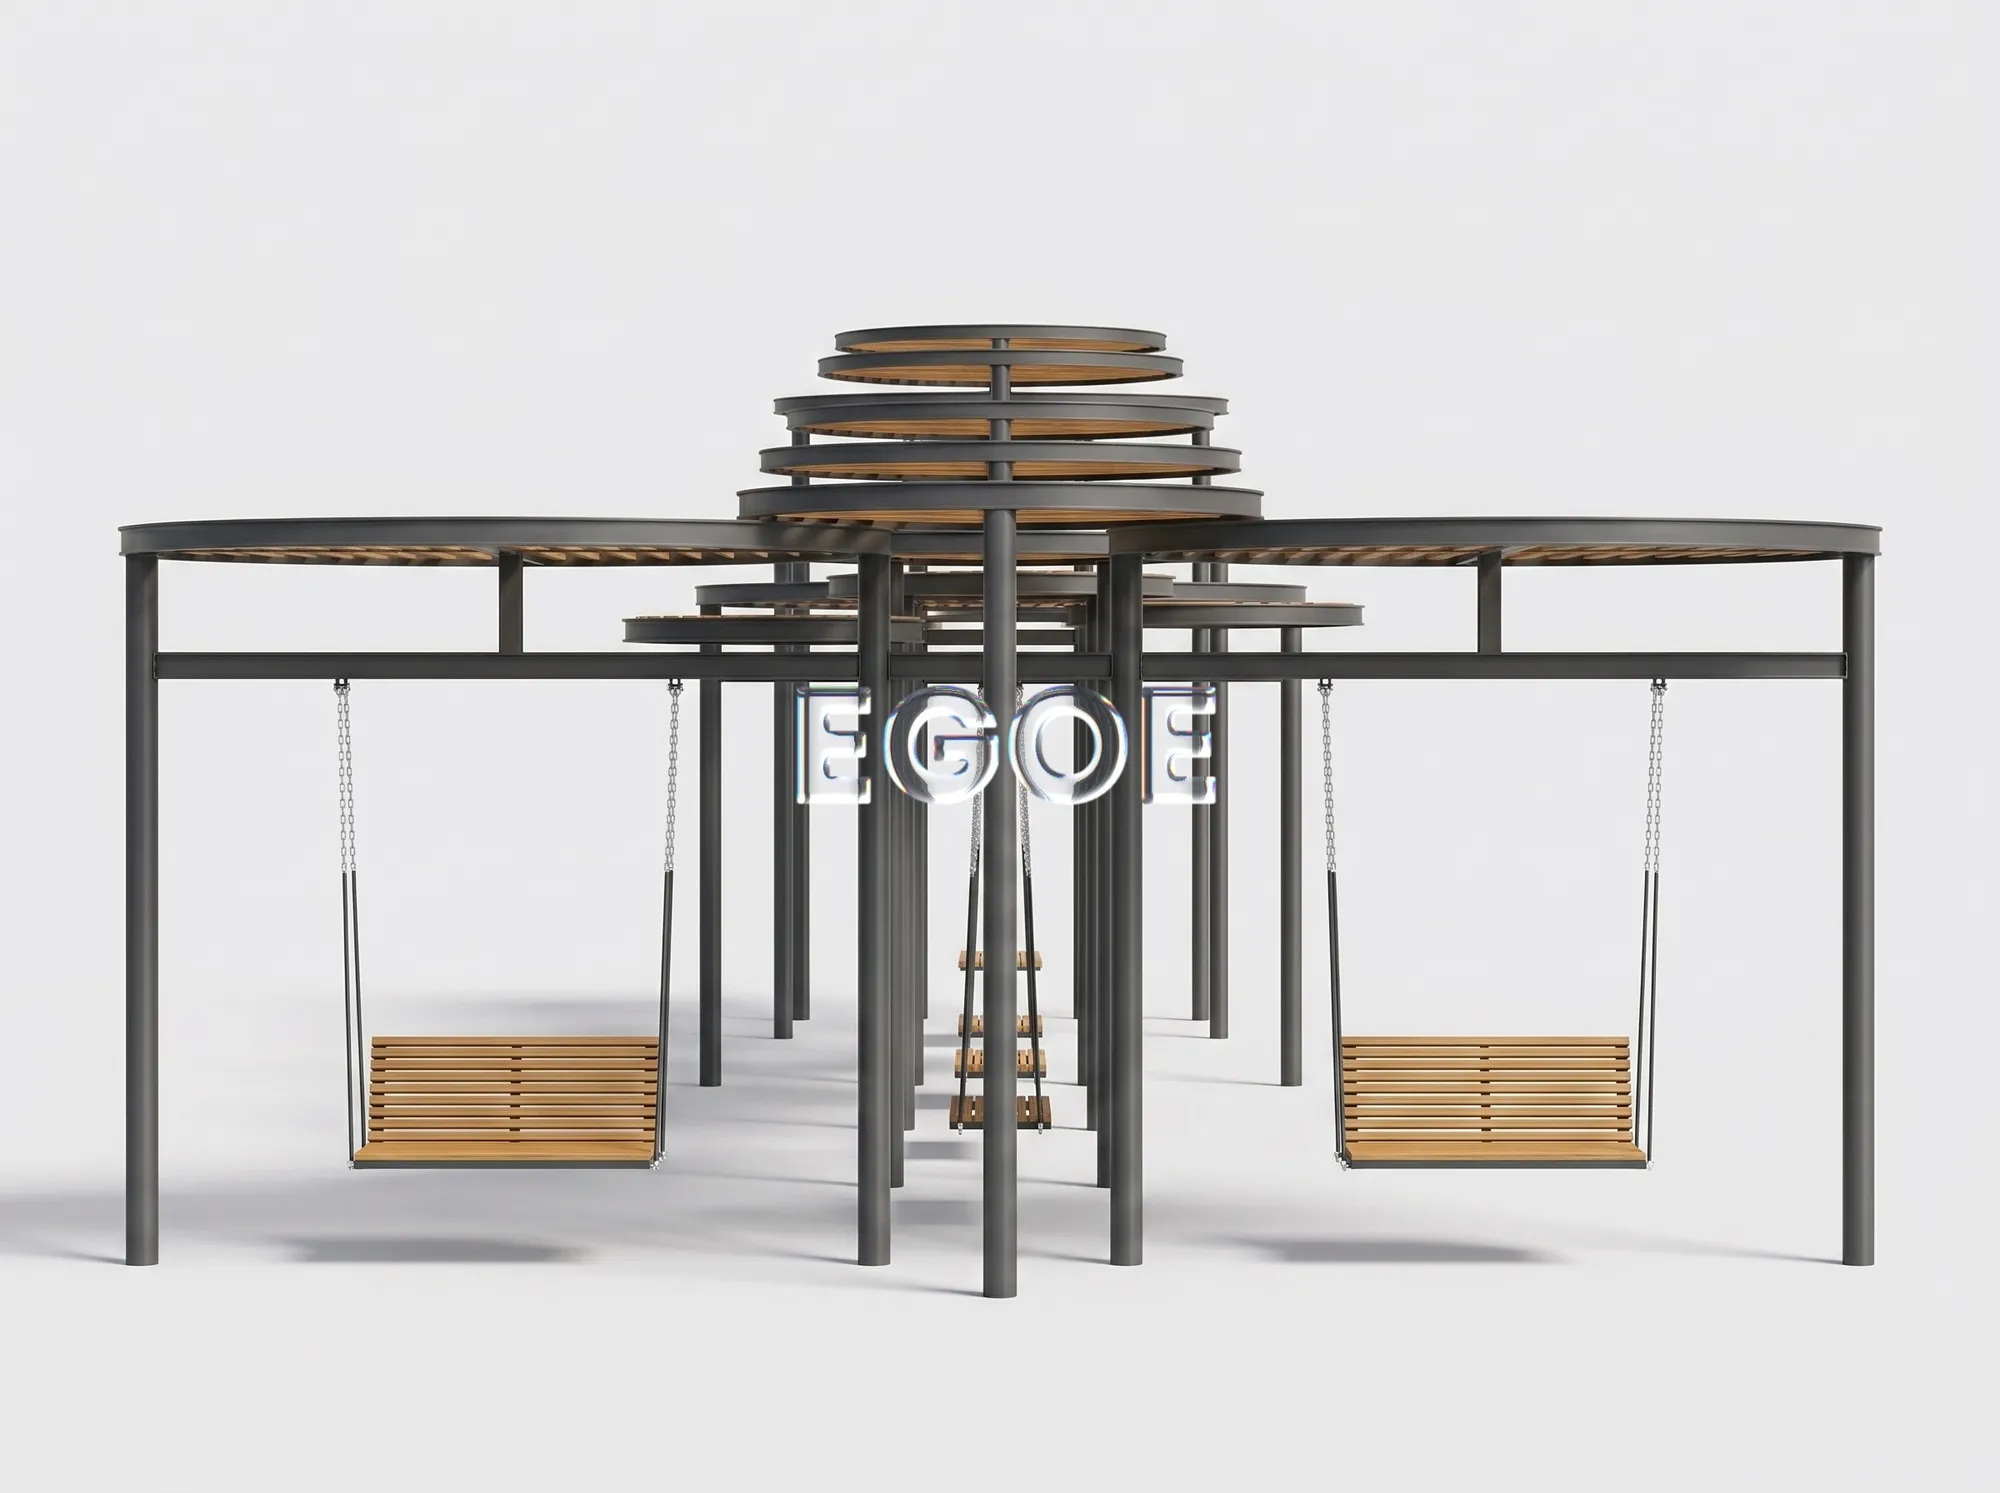
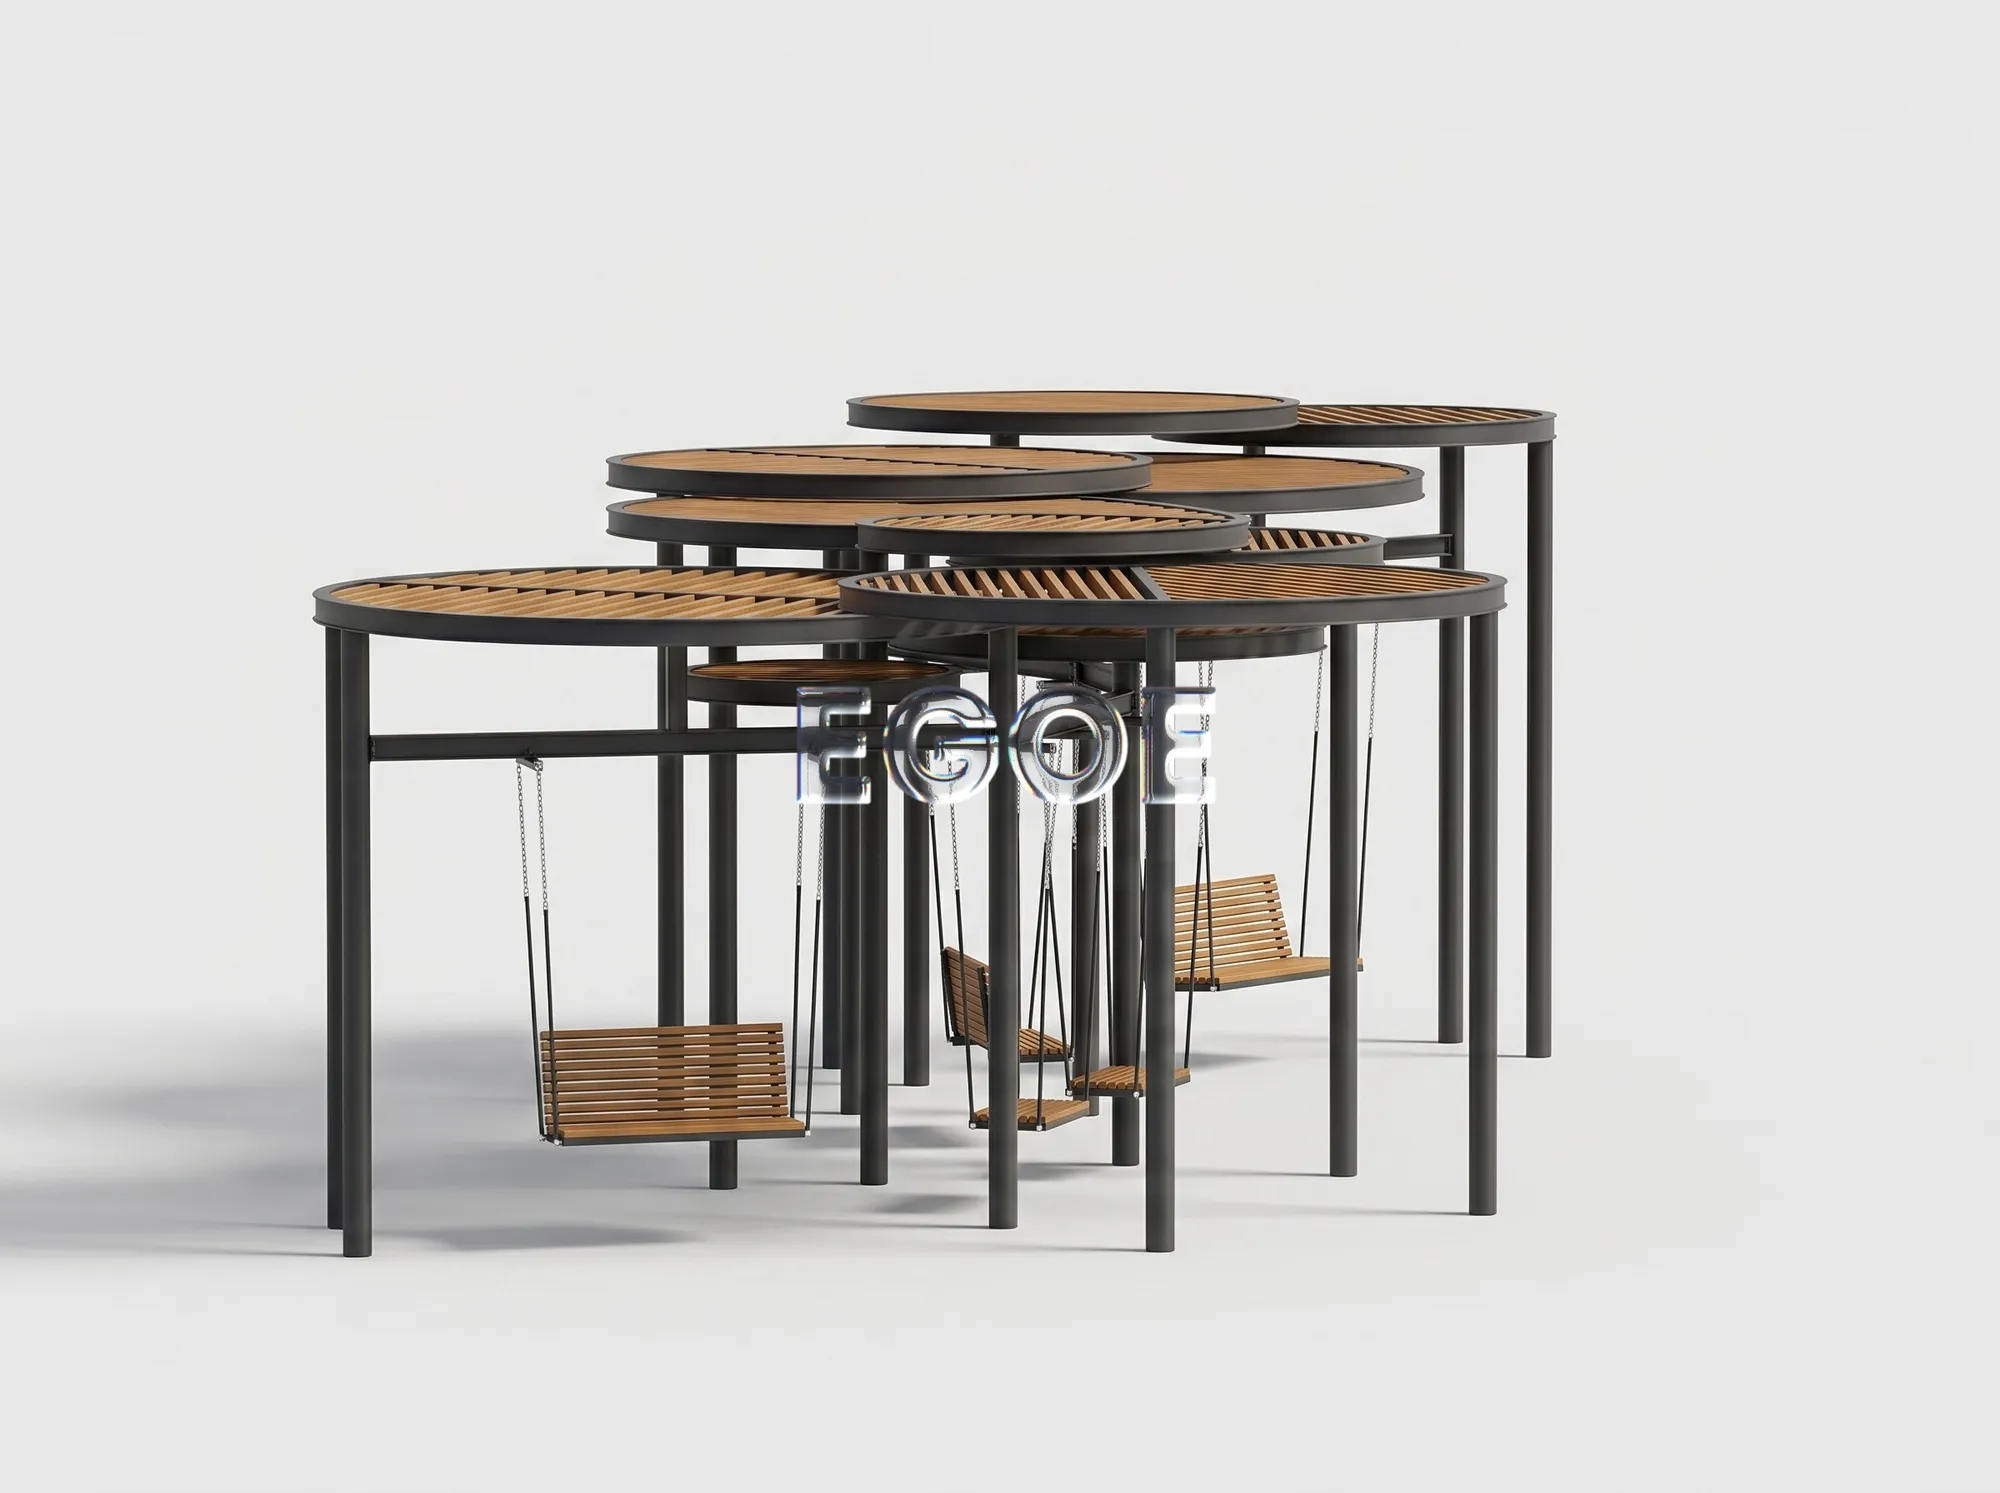
Update swing product photos

Changed region(s): [[0.0, 0.2157, 0.961, 0.8935]]

diff --git a/maf/kacheli/kacheli-bulvar/index.html b/maf/kacheli/kacheli-bulvar/index.html
@@ -129,8 +129,8 @@
     <div class="sec-head"><div><h2>Другие модели качелей</h2></div><a class="btn btn-sm" href="../../../maf/kacheli/index.html">Все качели</a></div>
     <div class="tiles3">
       <a class="tile" href="../../../maf/kacheli/kacheli-siti/index.html"><div class="ph has-img r-43"><img src="../../../assets/img/maf/kacheli/12189/main.webp" alt="Качели парковые «Сити»" loading="lazy"><span class="ph-label">Качели парковые «Сити»</span></div><h3>Качели парковые «Сити»</h3><p>от 605 900 ₽</p></a>
-      <a class="tile" href="../../../maf/kacheli/kacheli-miass-raund/index.html"><div class="ph has-img contain r-43"><img src="../../../assets/img/maf/kacheli/30279/main.webp" alt="Качели садово-парковые «Миасс Раунд»" loading="lazy"><span class="ph-label">Качели садово-парковые «Миасс Раунд»</span></div><h3>Качели садово-парковые «Миасс Раунд»</h3><p>от 709 200 ₽</p></a>
-      <a class="tile" href="../../../maf/kacheli/kacheli-oazis/index.html"><div class="ph has-img contain r-43"><img src="../../../assets/img/maf/kacheli/39606/main.webp" alt="Качели «Оазис»" loading="lazy"><span class="ph-label">Качели «Оазис»</span></div><h3>Качели «Оазис»</h3><p>от 2 291 700 ₽</p></a>
+      <a class="tile" href="../../../maf/kacheli/kacheli-miass-raund/index.html"><div class="ph has-img r-43"><img src="../../../assets/img/maf/kacheli/30279/main.webp" alt="Качели садово-парковые «Миасс Раунд»" loading="lazy"><span class="ph-label">Качели садово-парковые «Миасс Раунд»</span></div><h3>Качели садово-парковые «Миасс Раунд»</h3><p>от 709 200 ₽</p></a>
+      <a class="tile" href="../../../maf/kacheli/kacheli-oazis/index.html"><div class="ph has-img r-43"><img src="../../../assets/img/maf/kacheli/39606/main.webp" alt="Качели «Оазис»" loading="lazy"><span class="ph-label">Качели «Оазис»</span></div><h3>Качели «Оазис»</h3><p>от 2 291 700 ₽</p></a>
     </div>
   </div>
 </section>

diff --git a/maf/kacheli/kacheli-miass-raund/index.html b/maf/kacheli/kacheli-miass-raund/index.html
@@ -80,7 +80,7 @@
     <div class="prodpage">
       <div class="gallery">
               <div class="ph has-img main r-43"><img src="../../../assets/img/maf/kacheli/30279/main.webp" alt="Качели садово-парковые «Миасс Раунд»" loading="lazy"><span class="ph-label">Качели садово-парковые «Миасс Раунд»</span></div>
-              <div class="thumbs"><div class="ph has-img r-43"><img src="../../../assets/img/maf/kacheli/30279/closeup.webp" alt="Качели садово-парковые «Миасс Раунд»" loading="lazy"><span class="ph-label">деталь</span></div><div class="ph has-img contain r-43"><img src="../../../assets/img/maf/kacheli/30279/white.webp" alt="Качели садово-парковые «Миасс Раунд»" loading="lazy"><span class="ph-label">белый фон</span></div></div>
+              <div class="thumbs"><div class="ph has-img r-43"><img src="../../../assets/img/maf/kacheli/30279/closeup.webp" alt="Качели садово-парковые «Миасс Раунд»" loading="lazy"><span class="ph-label">деталь</span></div><div class="ph has-img contain r-43"><img src="../../../assets/img/maf/kacheli/30279/white.webp" alt="Качели садово-парковые «Миасс Раунд»" loading="lazy"><span class="ph-label">белый фон</span></div><div class="ph has-img r-43"><img src="../../../assets/img/maf/kacheli/30279/angle.webp" alt="Качели садово-парковые «Миасс Раунд»" loading="lazy"><span class="ph-label">на объекте</span></div></div>
             </div>
       <div class="pp-info">
         <h1 style="font-size:30px">Качели садово-парковые «Миасс Раунд»</h1>
@@ -130,7 +130,7 @@
     <div class="tiles3">
       <a class="tile" href="../../../maf/kacheli/kacheli-siti/index.html"><div class="ph has-img r-43"><img src="../../../assets/img/maf/kacheli/12189/main.webp" alt="Качели парковые «Сити»" loading="lazy"><span class="ph-label">Качели парковые «Сити»</span></div><h3>Качели парковые «Сити»</h3><p>от 605 900 ₽</p></a>
       <a class="tile" href="../../../maf/kacheli/kacheli-bulvar/index.html"><div class="ph has-img r-43"><img src="../../../assets/img/maf/kacheli/12202/main.webp" alt="Качели садово-парковые «Бульвар»" loading="lazy"><span class="ph-label">Качели садово-парковые «Бульвар»</span></div><h3>Качели садово-парковые «Бульвар»</h3><p>от 69 500 ₽</p></a>
-      <a class="tile" href="../../../maf/kacheli/kacheli-oazis/index.html"><div class="ph has-img contain r-43"><img src="../../../assets/img/maf/kacheli/39606/main.webp" alt="Качели «Оазис»" loading="lazy"><span class="ph-label">Качели «Оазис»</span></div><h3>Качели «Оазис»</h3><p>от 2 291 700 ₽</p></a>
+      <a class="tile" href="../../../maf/kacheli/kacheli-oazis/index.html"><div class="ph has-img r-43"><img src="../../../assets/img/maf/kacheli/39606/main.webp" alt="Качели «Оазис»" loading="lazy"><span class="ph-label">Качели «Оазис»</span></div><h3>Качели «Оазис»</h3><p>от 2 291 700 ₽</p></a>
     </div>
   </div>
 </section>

diff --git a/maf/kacheli/kacheli-siti/index.html b/maf/kacheli/kacheli-siti/index.html
@@ -129,8 +129,8 @@
     <div class="sec-head"><div><h2>Другие модели качелей</h2></div><a class="btn btn-sm" href="../../../maf/kacheli/index.html">Все качели</a></div>
     <div class="tiles3">
       <a class="tile" href="../../../maf/kacheli/kacheli-bulvar/index.html"><div class="ph has-img r-43"><img src="../../../assets/img/maf/kacheli/12202/main.webp" alt="Качели садово-парковые «Бульвар»" loading="lazy"><span class="ph-label">Качели садово-парковые «Бульвар»</span></div><h3>Качели садово-парковые «Бульвар»</h3><p>от 69 500 ₽</p></a>
-      <a class="tile" href="../../../maf/kacheli/kacheli-miass-raund/index.html"><div class="ph has-img contain r-43"><img src="../../../assets/img/maf/kacheli/30279/main.webp" alt="Качели садово-парковые «Миасс Раунд»" loading="lazy"><span class="ph-label">Качели садово-парковые «Миасс Раунд»</span></div><h3>Качели садово-парковые «Миасс Раунд»</h3><p>от 709 200 ₽</p></a>
-      <a class="tile" href="../../../maf/kacheli/kacheli-oazis/index.html"><div class="ph has-img contain r-43"><img src="../../../assets/img/maf/kacheli/39606/main.webp" alt="Качели «Оазис»" loading="lazy"><span class="ph-label">Качели «Оазис»</span></div><h3>Качели «Оазис»</h3><p>от 2 291 700 ₽</p></a>
+      <a class="tile" href="../../../maf/kacheli/kacheli-miass-raund/index.html"><div class="ph has-img r-43"><img src="../../../assets/img/maf/kacheli/30279/main.webp" alt="Качели садово-парковые «Миасс Раунд»" loading="lazy"><span class="ph-label">Качели садово-парковые «Миасс Раунд»</span></div><h3>Качели садово-парковые «Миасс Раунд»</h3><p>от 709 200 ₽</p></a>
+      <a class="tile" href="../../../maf/kacheli/kacheli-oazis/index.html"><div class="ph has-img r-43"><img src="../../../assets/img/maf/kacheli/39606/main.webp" alt="Качели «Оазис»" loading="lazy"><span class="ph-label">Качели «Оазис»</span></div><h3>Качели «Оазис»</h3><p>от 2 291 700 ₽</p></a>
     </div>
   </div>
 </section>

diff --git a/maf/kacheli/kacheli-tandem/index.html b/maf/kacheli/kacheli-tandem/index.html
@@ -80,7 +80,7 @@
     <div class="prodpage">
       <div class="gallery">
               <div class="ph has-img main r-43"><img src="../../../assets/img/maf/kacheli/61962/main.webp" alt="Качели парковые «Тандем»" loading="lazy"><span class="ph-label">Качели парковые «Тандем»</span></div>
-              <div class="thumbs"><div class="ph has-img r-43"><img src="../../../assets/img/maf/kacheli/61962/closeup.webp" alt="Качели парковые «Тандем»" loading="lazy"><span class="ph-label">деталь</span></div><div class="ph has-img contain r-43"><img src="../../../assets/img/maf/kacheli/61962/white.webp" alt="Качели парковые «Тандем»" loading="lazy"><span class="ph-label">белый фон</span></div></div>
+              <div class="thumbs"><div class="ph has-img r-43"><img src="../../../assets/img/maf/kacheli/61962/closeup.webp" alt="Качели парковые «Тандем»" loading="lazy"><span class="ph-label">деталь</span></div><div class="ph has-img contain r-43"><img src="../../../assets/img/maf/kacheli/61962/white.webp" alt="Качели парковые «Тандем»" loading="lazy"><span class="ph-label">белый фон</span></div><div class="ph has-img r-43"><img src="../../../assets/img/maf/kacheli/61962/angle.webp" alt="Качели парковые «Тандем»" loading="lazy"><span class="ph-label">на объекте</span></div></div>
             </div>
       <div class="pp-info">
         <h1 style="font-size:30px">Качели парковые «Тандем»</h1>
@@ -126,7 +126,7 @@
     <div class="tiles3">
       <a class="tile" href="../../../maf/kacheli/kacheli-siti/index.html"><div class="ph has-img r-43"><img src="../../../assets/img/maf/kacheli/12189/main.webp" alt="Качели парковые «Сити»" loading="lazy"><span class="ph-label">Качели парковые «Сити»</span></div><h3>Качели парковые «Сити»</h3><p>от 605 900 ₽</p></a>
       <a class="tile" href="../../../maf/kacheli/kacheli-bulvar/index.html"><div class="ph has-img r-43"><img src="../../../assets/img/maf/kacheli/12202/main.webp" alt="Качели садово-парковые «Бульвар»" loading="lazy"><span class="ph-label">Качели садово-парковые «Бульвар»</span></div><h3>Качели садово-парковые «Бульвар»</h3><p>от 69 500 ₽</p></a>
-      <a class="tile" href="../../../maf/kacheli/kacheli-miass-raund/index.html"><div class="ph has-img contain r-43"><img src="../../../assets/img/maf/kacheli/30279/main.webp" alt="Качели садово-парковые «Миасс Раунд»" loading="lazy"><span class="ph-label">Качели садово-парковые «Миасс Раунд»</span></div><h3>Качели садово-парковые «Миасс Раунд»</h3><p>от 709 200 ₽</p></a>
+      <a class="tile" href="../../../maf/kacheli/kacheli-miass-raund/index.html"><div class="ph has-img r-43"><img src="../../../assets/img/maf/kacheli/30279/main.webp" alt="Качели садово-парковые «Миасс Раунд»" loading="lazy"><span class="ph-label">Качели садово-парковые «Миасс Раунд»</span></div><h3>Качели садово-парковые «Миасс Раунд»</h3><p>от 709 200 ₽</p></a>
     </div>
   </div>
 </section>

diff --git a/maf/kacheli/kacheli-oazis-tip-7/index.html b/maf/kacheli/kacheli-oazis-tip-7/index.html
@@ -125,7 +125,7 @@
     <div class="tiles3">
       <a class="tile" href="../../../maf/kacheli/kacheli-siti/index.html"><div class="ph has-img r-43"><img src="../../../assets/img/maf/kacheli/12189/main.webp" alt="Качели парковые «Сити»" loading="lazy"><span class="ph-label">Качели парковые «Сити»</span></div><h3>Качели парковые «Сити»</h3><p>от 605 900 ₽</p></a>
       <a class="tile" href="../../../maf/kacheli/kacheli-bulvar/index.html"><div class="ph has-img r-43"><img src="../../../assets/img/maf/kacheli/12202/main.webp" alt="Качели садово-парковые «Бульвар»" loading="lazy"><span class="ph-label">Качели садово-парковые «Бульвар»</span></div><h3>Качели садово-парковые «Бульвар»</h3><p>от 69 500 ₽</p></a>
-      <a class="tile" href="../../../maf/kacheli/kacheli-miass-raund/index.html"><div class="ph has-img contain r-43"><img src="../../../assets/img/maf/kacheli/30279/main.webp" alt="Качели садово-парковые «Миасс Раунд»" loading="lazy"><span class="ph-label">Качели садово-парковые «Миасс Раунд»</span></div><h3>Качели садово-парковые «Миасс Раунд»</h3><p>от 709 200 ₽</p></a>
+      <a class="tile" href="../../../maf/kacheli/kacheli-miass-raund/index.html"><div class="ph has-img r-43"><img src="../../../assets/img/maf/kacheli/30279/main.webp" alt="Качели садово-парковые «Миасс Раунд»" loading="lazy"><span class="ph-label">Качели садово-парковые «Миасс Раунд»</span></div><h3>Качели садово-парковые «Миасс Раунд»</h3><p>от 709 200 ₽</p></a>
     </div>
   </div>
 </section>

diff --git a/maf/kacheli/kacheli-oazis/index.html b/maf/kacheli/kacheli-oazis/index.html
@@ -129,7 +129,7 @@
     <div class="tiles3">
       <a class="tile" href="../../../maf/kacheli/kacheli-siti/index.html"><div class="ph has-img r-43"><img src="../../../assets/img/maf/kacheli/12189/main.webp" alt="Качели парковые «Сити»" loading="lazy"><span class="ph-label">Качели парковые «Сити»</span></div><h3>Качели парковые «Сити»</h3><p>от 605 900 ₽</p></a>
       <a class="tile" href="../../../maf/kacheli/kacheli-bulvar/index.html"><div class="ph has-img r-43"><img src="../../../assets/img/maf/kacheli/12202/main.webp" alt="Качели садово-парковые «Бульвар»" loading="lazy"><span class="ph-label">Качели садово-парковые «Бульвар»</span></div><h3>Качели садово-парковые «Бульвар»</h3><p>от 69 500 ₽</p></a>
-      <a class="tile" href="../../../maf/kacheli/kacheli-miass-raund/index.html"><div class="ph has-img contain r-43"><img src="../../../assets/img/maf/kacheli/30279/main.webp" alt="Качели садово-парковые «Миасс Раунд»" loading="lazy"><span class="ph-label">Качели садово-парковые «Миасс Раунд»</span></div><h3>Качели садово-парковые «Миасс Раунд»</h3><p>от 709 200 ₽</p></a>
+      <a class="tile" href="../../../maf/kacheli/kacheli-miass-raund/index.html"><div class="ph has-img r-43"><img src="../../../assets/img/maf/kacheli/30279/main.webp" alt="Качели садово-парковые «Миасс Раунд»" loading="lazy"><span class="ph-label">Качели садово-парковые «Миасс Раунд»</span></div><h3>Качели садово-парковые «Миасс Раунд»</h3><p>от 709 200 ₽</p></a>
     </div>
   </div>
 </section>